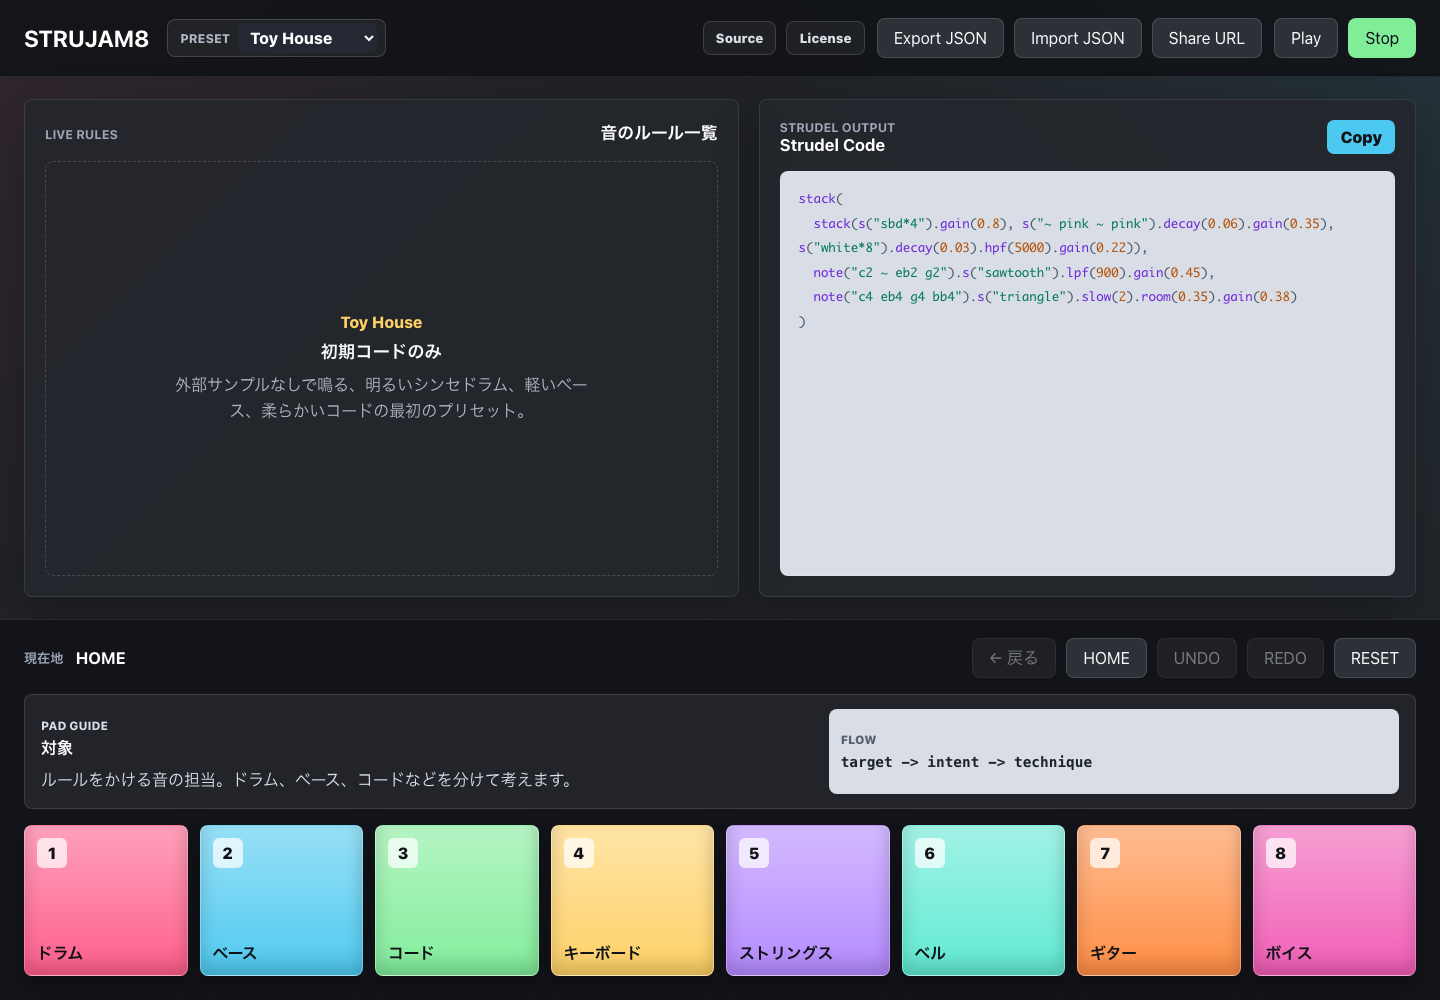
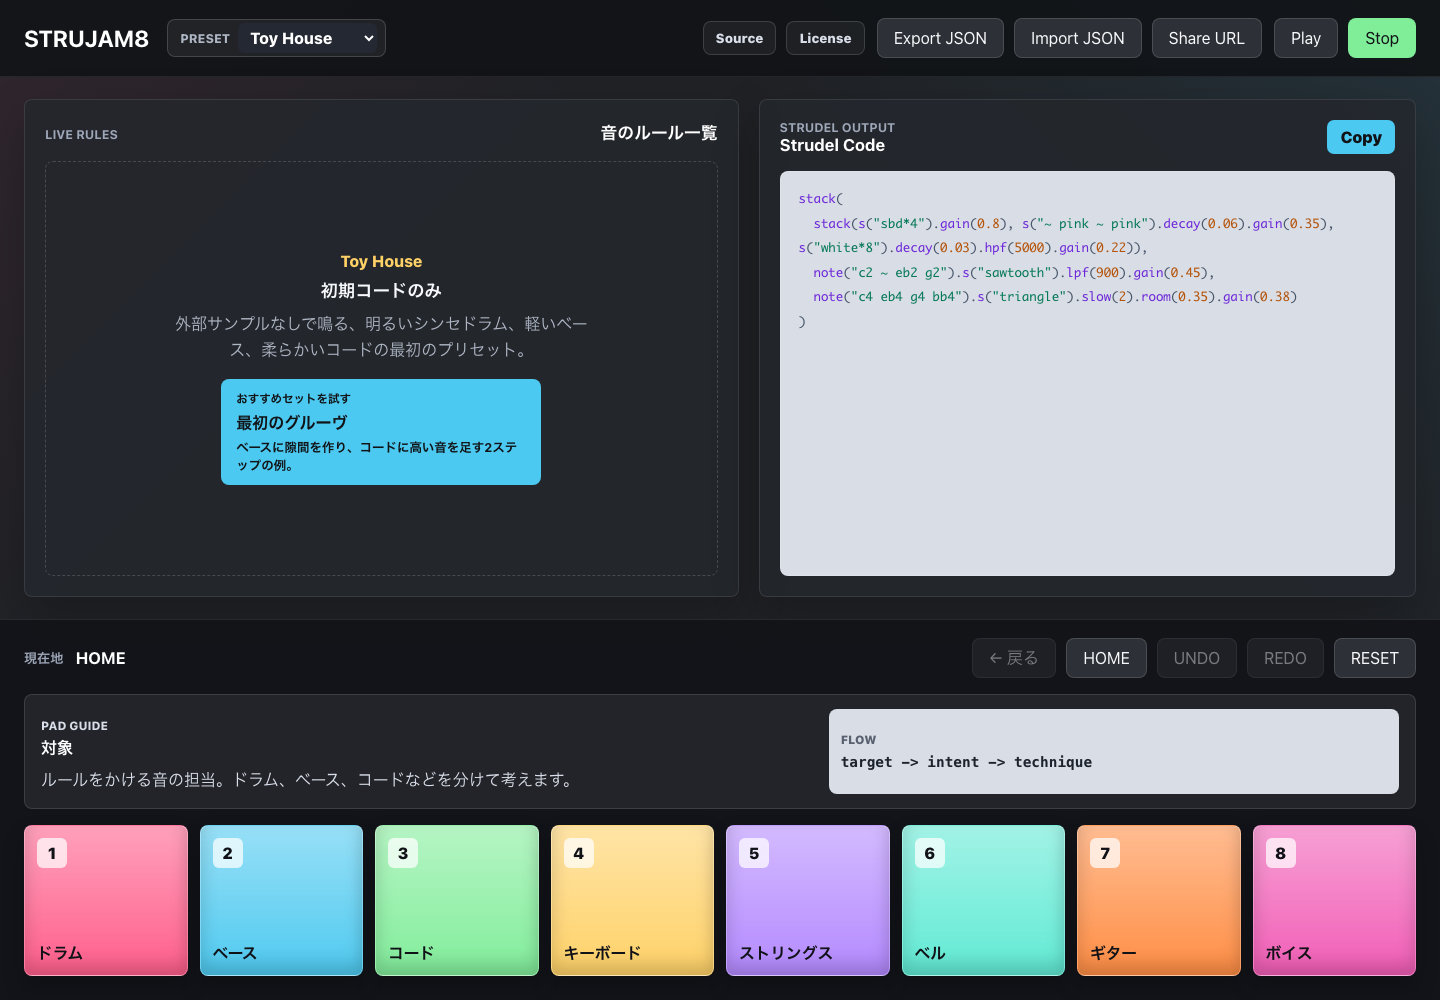
Add beginner starter jam recipe

Changed region(s): [[0.125, 0.248, 0.375, 0.496]]

diff --git a/src/App.tsx b/src/App.tsx
@@ -33,6 +33,7 @@ import { livePadTextColor } from "./data/padColors";
 import { getPresetDefinition, presets } from "./data/presets";
 import { projectLinks } from "./data/projectLinks";
 import { getRouteDefinition } from "./data/routes";
+import { starterJam } from "./data/starterJam";
 import { getTechniqueById } from "./data/techniques";
 import { formatPlayableCodeLines } from "./lib/codegen";
 import { getActiveCodeLineIndexes, getActiveCodeRuleId, joinCodeLines } from "./lib/codeHighlight";
@@ -59,7 +60,16 @@ import {
   serializeJamSnapshot,
 } from "./lib/persistence";
 import { appReducer, createInitialAppState, initialAppState } from "./state/appReducer";
-import type { CurrentLevel, IntentId, PadOption, PresetId, RouteSelection, Rule, TargetId } from "./types";
+import type {
+  CurrentLevel,
+  IntentId,
+  PadOption,
+  PresetId,
+  RouteSelection,
+  Rule,
+  TargetId,
+  TechniqueDefinition,
+} from "./types";
 
 function getPathLabel(
   level: CurrentLevel,
@@ -88,6 +98,22 @@ function createRuleId(targetId: TargetId, intentId: IntentId, techniqueId: strin
   }
 
   return `${targetId}-${intentId}-${techniqueId}-${Date.now()}`;
+}
+
+function createRuleFromTechnique(technique: TechniqueDefinition): Rule {
+  return {
+    id: createRuleId(technique.targetId, technique.intentId, technique.id),
+    targetId: technique.targetId,
+    intentId: technique.intentId,
+    techniqueId: technique.id,
+    target: technique.target,
+    intent: technique.intent,
+    technique: technique.label,
+    shortLabel: technique.shortLabel,
+    strudelSnippet: technique.strudelSnippet,
+    needsTodo: technique.needsTodo ?? false,
+    enabled: true,
+  };
 }
 
 function loadInitialAppState() {
@@ -321,24 +347,41 @@ function App() {
     }
 
     const techniqueDefinition = getTechniqueById(pad.id);
-    const nextRule: Rule = {
-      id: createRuleId(selectedTarget.id, selectedIntent.id, pad.id),
-      targetId: selectedTarget.id,
-      intentId: selectedIntent.id,
-      techniqueId: pad.id,
-      target: selectedTarget.label,
-      intent: selectedIntent.label,
-      technique: pad.label,
-      shortLabel: techniqueDefinition?.shortLabel ?? pad.label,
-      strudelSnippet: techniqueDefinition?.strudelSnippet ?? null,
-      needsTodo: techniqueDefinition?.needsTodo ?? false,
-      enabled: true,
-    };
+    const nextRule = techniqueDefinition
+      ? createRuleFromTechnique(techniqueDefinition)
+      : {
+          id: createRuleId(selectedTarget.id, selectedIntent.id, pad.id),
+          targetId: selectedTarget.id,
+          intentId: selectedIntent.id,
+          techniqueId: pad.id,
+          target: selectedTarget.label,
+          intent: selectedIntent.label,
+          technique: pad.label,
+          shortLabel: pad.label,
+          strudelSnippet: null,
+          needsTodo: false,
+          enabled: true,
+        };
 
     dispatch({ type: "addRule", rule: nextRule });
     setSelectedRuleId(nextRule.id);
     announce(formatRuleAddedAnnouncement(nextRule));
   }, [announce, currentLevel, selectedIntent, selectedTarget]);
+
+  const handleStarterJam = useCallback(() => {
+    const starterRules = starterJam.techniqueIds
+      .map((techniqueId) => getTechniqueById(techniqueId))
+      .filter((technique): technique is TechniqueDefinition => Boolean(technique))
+      .map(createRuleFromTechnique);
+
+    if (starterRules.length === 0) {
+      return;
+    }
+
+    dispatch({ type: "addRules", rules: starterRules });
+    setSelectedRuleId(starterRules[starterRules.length - 1]?.id ?? null);
+    announce(`${starterJam.label}を追加しました。コードパネルで変化を確認できます。`);
+  }, [announce]);
 
   const handleToggleRule = useCallback((rule: Rule) => {
     dispatch({ type: "toggleRuleEnabled", ruleId: rule.id });
@@ -772,6 +815,16 @@ function App() {
               <span>{selectedPreset.name}</span>
               <strong>初期コードのみ</strong>
               <p>{selectedPreset.description}</p>
+              <button
+                className="starter-jam-button"
+                type="button"
+                aria-label="おすすめセットを試す"
+                onClick={handleStarterJam}
+              >
+                <span>おすすめセットを試す</span>
+                <strong>{starterJam.label}</strong>
+                <small>{starterJam.description}</small>
+              </button>
             </div>
           )}
         </section>

diff --git a/e2e/app.spec.ts b/e2e/app.spec.ts
@@ -71,6 +71,25 @@ test.describe("StruJam8 browser flow", () => {
     await expect(page.getByText("ベース ＞ 崩す", { exact: true }).first()).toBeVisible();
   });
 
+  test("offers a starter jam from the empty rule state", async ({ page }) => {
+    await page.goto("./");
+
+    await expect(page.getByRole("button", { name: "おすすめセットを試す" })).toBeVisible();
+    await page.getByRole("button", { name: "おすすめセットを試す" }).click();
+
+    await expect(page.locator(".rule-block")).toHaveCount(2);
+    await expect(page.locator(".rule-block").filter({ hasText: "音を抜く" })).toBeVisible();
+    await expect(page.locator(".rule-block").filter({ hasText: "高い音を足す" })).toBeVisible();
+
+    const code = page.getByLabel("Audible Strudel code");
+    await expect(code).toContainText(".degradeBy(0.2)");
+    await expect(code).toContainText('.sometimes(add(note("12")))');
+
+    await page.getByRole("button", { name: "UNDO", exact: true }).click();
+    await expect(page.locator(".rule-block")).toHaveCount(0);
+    await expect(page.getByRole("button", { name: "おすすめセットを試す" })).toBeVisible();
+  });
+
   test("shows unverified techniques as TODO without sending them to Play", async ({ page }) => {
     await page.goto("./");
     await chooseUnverifiedBassBreakTechnique(page);

diff --git a/src/App.css b/src/App.css
@@ -622,6 +622,7 @@ button:focus-visible {
   min-height: 180px;
   place-content: center;
   gap: 8px;
+  padding: 18px;
   border: 1px dashed rgba(255, 255, 255, 0.16);
   border-radius: 8px;
   color: #aab2c2;
@@ -643,6 +644,58 @@ button:focus-visible {
   margin: 0;
   color: #aeb6c4;
   line-height: 1.6;
+}
+
+.starter-jam-button {
+  display: grid;
+  gap: 4px;
+  width: min(100%, 320px);
+  min-height: 72px;
+  margin: 8px auto 0;
+  border: 1px solid rgba(76, 201, 240, 0.64);
+  border-radius: 8px;
+  padding: 10px 14px;
+  color: #111317;
+  background: #4cc9f0;
+  cursor: pointer;
+  text-align: left;
+  transition:
+    transform 160ms ease,
+    border-color 160ms ease,
+    background 160ms ease;
+}
+
+.starter-jam-button:hover {
+  transform: translateY(-1px);
+  border-color: #b6efff;
+  background: #71d8f6;
+}
+
+.starter-jam-button:focus-visible {
+  outline: 3px solid #ffffff;
+  outline-offset: 3px;
+}
+
+.starter-jam-button span,
+.starter-jam-button strong,
+.starter-jam-button small {
+  color: inherit;
+}
+
+.starter-jam-button span {
+  font-size: 0.72rem;
+  font-weight: 900;
+  text-transform: uppercase;
+}
+
+.starter-jam-button strong {
+  font-size: 1rem;
+}
+
+.starter-jam-button small {
+  font-size: 0.78rem;
+  font-weight: 700;
+  line-height: 1.4;
 }
 
 .code-view {

diff --git a/src/App.integration.test.tsx b/src/App.integration.test.tsx
@@ -92,6 +92,25 @@ describe("App interactions", () => {
     expect(screen.getByLabelText("Audible Strudel code")).toHaveTextContent('.sometimes(add(note("12")))');
   });
 
+  it("offers a starter jam that updates code and can be undone as one change", () => {
+    render(<App />);
+
+    clickButton("おすすめセットを試す");
+
+    const ruleTexts = screen.getAllByRole("listitem").map((rule) => rule.textContent ?? "");
+    expect(ruleTexts).toEqual(expect.arrayContaining([
+      expect.stringContaining("ベース＞崩す＞音を抜く"),
+      expect.stringContaining("コード＞盛り上げる＞高い音を足す"),
+    ]));
+    expect(screen.getByLabelText("Audible Strudel code")).toHaveTextContent(".degradeBy(0.2)");
+    expect(screen.getByLabelText("Audible Strudel code")).toHaveTextContent('.sometimes(add(note("12")))');
+
+    clickButton("UNDO");
+
+    expect(screen.queryAllByRole("listitem")).toHaveLength(0);
+    expect(screen.getByLabelText("Audible Strudel code")).not.toHaveTextContent(".degradeBy(0.2)");
+  });
+
   it("supports number-key pad shortcuts", () => {
     render(<App />);
 

diff --git a/src/state/appReducer.test.ts b/src/state/appReducer.test.ts
@@ -73,6 +73,21 @@ describe("appReducer", () => {
     expect(removedState.rules).toEqual([]);
   });
 
+  it("adds a batch of starter rules as one undoable change", () => {
+    const firstRule = makeRule({ id: "first" });
+    const secondRule = makeRule({ id: "second", technique: "音を反転", strudelSnippet: ".rev()" });
+
+    const addedState = appReducer(initialAppState, {
+      type: "addRules",
+      rules: [firstRule, secondRule],
+    });
+    const undoneState = appReducer(addedState, { type: "undoRuleChange" });
+
+    expect(addedState.rules.map((rule) => rule.id)).toEqual(["first", "second"]);
+    expect(addedState.ruleHistory).toHaveLength(1);
+    expect(undoneState.rules).toEqual([]);
+  });
+
   it("duplicates a rule below its source and keeps it undoable", () => {
     const firstRule = makeRule({ id: "first", technique: "音を抜く" });
     const secondRule = makeRule({ id: "second", technique: "音を反転" });

diff --git a/src/state/appReducer.ts b/src/state/appReducer.ts
@@ -28,6 +28,7 @@ export type AppAction =
   | { type: "selectTarget"; target: RouteSelection<TargetId> }
   | { type: "selectIntent"; intent: RouteSelection<IntentId> }
   | { type: "addRule"; rule: Rule }
+  | { type: "addRules"; rules: Rule[] }
   | { type: "duplicateRule"; sourceRuleId: string; rule: Rule }
   | { type: "toggleRuleEnabled"; ruleId: string }
   | { type: "moveRule"; ruleId: string; direction: MoveDirection }
@@ -129,6 +130,11 @@ export function appReducer(state: AppState, action: AppAction): AppState {
 
     case "addRule":
       return commitRuleChange(state, [...state.rules, action.rule]);
+
+    case "addRules":
+      return action.rules.length > 0
+        ? commitRuleChange(state, [...state.rules, ...action.rules])
+        : state;
 
     case "duplicateRule":
       return commitRuleChange(

diff --git a/src/data/starterJam.test.ts b/src/data/starterJam.test.ts
@@ -1,0 +1,13 @@
+import { describe, expect, it } from "vitest";
+import { getTechniqueById } from "./techniques";
+import { starterJam } from "./starterJam";
+
+describe("starter jam", () => {
+  it("references exactly two playable techniques", () => {
+    const techniques = starterJam.techniqueIds.map((id) => getTechniqueById(id));
+
+    expect(techniques).toHaveLength(2);
+    expect(techniques.every((technique) => technique && !technique.needsTodo)).toBe(true);
+    expect(techniques.map((technique) => technique?.label)).toEqual(["音を抜く", "高い音を足す"]);
+  });
+});

diff --git a/src/data/starterJam.ts b/src/data/starterJam.ts
@@ -1,0 +1,6 @@
+export const starterJam = {
+  id: "first-groove",
+  label: "最初のグルーヴ",
+  description: "ベースに隙間を作り、コードに高い音を足す2ステップの例。",
+  techniqueIds: ["bass-break-drop-notes", "chords-build-add-high-note"],
+} as const;

diff --git a/AI_README.md b/AI_README.md
@@ -73,6 +73,7 @@ Use `npm run check` as the normal local validation gate; it runs `npm test` and 
 - `src/data/pads.ts`: target and intent pad definitions plus route-specific technique pad lookup.
 - `src/data/padColors.ts`: shared live pad palette, text color, and minimum contrast target.
 - `src/data/presets.ts`: static preset metadata, base code, and preset track patterns.
+- `src/data/starterJam.ts`: the beginner starter rule recipe shown in the empty rule state.
 - `src/data/projectLinks.ts`: source and license links shown in the app header.
 - `src/data/routes.ts`: explicit concrete target/intent route definitions and route lookup helpers.
 - `src/data/tracks.ts`: track metadata and starter pattern templates for all eight targets.
@@ -146,6 +147,7 @@ Concrete target/intent routes are listed in `src/data/routes.ts`. Every concrete
 - Eight visible pads at each level.
 - Back, Home, Undo, Redo, and Reset controls; RESET clears added rules, preserves the current navigation location and preset, and can be undone/redone.
 - Rule creation when a technique is selected.
+- Beginner starter jam action that adds two safe example rules as one undoable change.
 - Rule list display.
 - Rule deletion, duplication, ON/OFF toggling, reordering, undo, and redo for rule changes.
 - Intent-level route guide plus technique preview and compact rule detail panels with descriptions, snippets, plain-language snippet explanations, short labels, and TODO badges.
@@ -216,7 +218,7 @@ Concrete target/intent routes are listed in `src/data/routes.ts`. Every concrete
   - ボイス -> 前に出す
   - ボイス -> 広げる
   - ボイス -> ランダム感
-- Learning experience: intent-level route descriptions, technique descriptions, snippets, and plain-language snippet explanations are visible in the pad preview and selected rule detail, but there is no guided mode or full code walkthrough yet.
+- Learning experience: intent-level route descriptions, technique descriptions, snippets, and plain-language snippet explanations are visible in the pad preview and selected rule detail. A first starter jam connects two explanations to the generated code, but there is no full guided mode or code walkthrough yet.
 - Selection feedback: selected technique pads are outlined for active rules, and rules can be duplicated, removed, toggled on/off, reordered, undone, and redone. Parameter-level editing is not implemented yet.
 - Target and intent coverage: all eight target families and all eight intent families now have at least one concrete target/intent route.
 
@@ -328,6 +330,7 @@ Strengths:
 - The 8-pad model is simple.
 - The current path display makes hierarchy understandable.
 - The code panel gives immediate feedback.
+- The empty rule state offers a safe two-rule starter jam that can be undone as one action.
 - Technique preview makes concrete technique meaning inspectable before selection on pointer and keyboard focus.
 - Selected rule detail makes added rules readable after selection.
 - Snippet explanations translate small Strudel fragments into plain Japanese.
@@ -343,7 +346,7 @@ Recommended direction:
 
 - Keep improving fallback explanations as real routes are added.
 - Consider per-rule parameter editing once duplication and undo/redo feel stable in real use.
-- Add guided examples that connect the snippet explanation to the generated code panel.
+- Expand the starter jam into guided examples that connect more snippet explanations to the generated code panel.
 
 ### Accessibility
 
@@ -438,6 +441,7 @@ Tasks:
 - Show concrete/prototype route descriptions before choosing an intent: done.
 - Show short labels on pads where useful, but preserve full labels for readability: done.
 - Add plain-language explanations beside snippets: done in the pad preview.
+- Add a first guided example: done with the starter jam action; broader guided examples remain pending.
 - Add TODO badges for unverified snippets: done in the pad preview, rule list, and rule detail panel; unverified snippets are skipped by Play.
 - Add a compact rule detail view: done.
 

diff --git a/README.md b/README.md
@@ -26,6 +26,7 @@ Implemented:
 - 8-pad navigation across three levels: target, intent, technique
 - Rule list generated from selected techniques
 - Rule ON/OFF toggling, duplication, deletion, reordering, reset, undo, and redo for rule changes
+- Beginner starter jam action that adds two safe example rules as one undoable change
 - Toy House and Neon Dub preset selection
 - Local browser persistence for rules and preset selection
 - JSON export/import for jam snapshots
@@ -49,7 +50,7 @@ Implemented:
 - Recoverable audio failures expose a visible Retry state
 - Unexpected UI rendering failures show a reloadable fallback instead of a blank screen
 - React Testing Library + jsdom integration coverage for route navigation, reset, persistence restore, number-key navigation, and audio retry recovery
-- Playwright browser checks for route navigation, code updates, RESET, safe exclusion of unverified snippets, real invalid-snippet failure recovery, tablet-width overflow, browser audio start/stop, and live code highlighting
+- Playwright browser checks for route navigation, code updates, RESET, starter jam onboarding, safe exclusion of unverified snippets, real invalid-snippet failure recovery, tablet-width overflow, browser audio start/stop, and live code highlighting
 - The Strudel audio runtime is lazy-loaded only after Play, with browser checks guarding that initial-load behavior in both development and GitHub Pages production previews
 
 Not implemented yet:

diff --git a/docs/demo.md b/docs/demo.md
@@ -27,7 +27,7 @@ localStorage.removeItem("strujam8:jam:v1")
 
 Captured files live under `docs/assets/`:
 
-- `strujam8-home.png`: first view with Toy House selected and no rules.
+- `strujam8-home.png`: first view with Toy House selected, no rules, and the starter jam action visible.
 - `strujam8-rules-code.png`: one bass rule, rule detail visible, audible code populated, and the selected code line highlighted.
 - `strujam8-tablet.png`: 1024 x 768 tablet-width layout.
 
